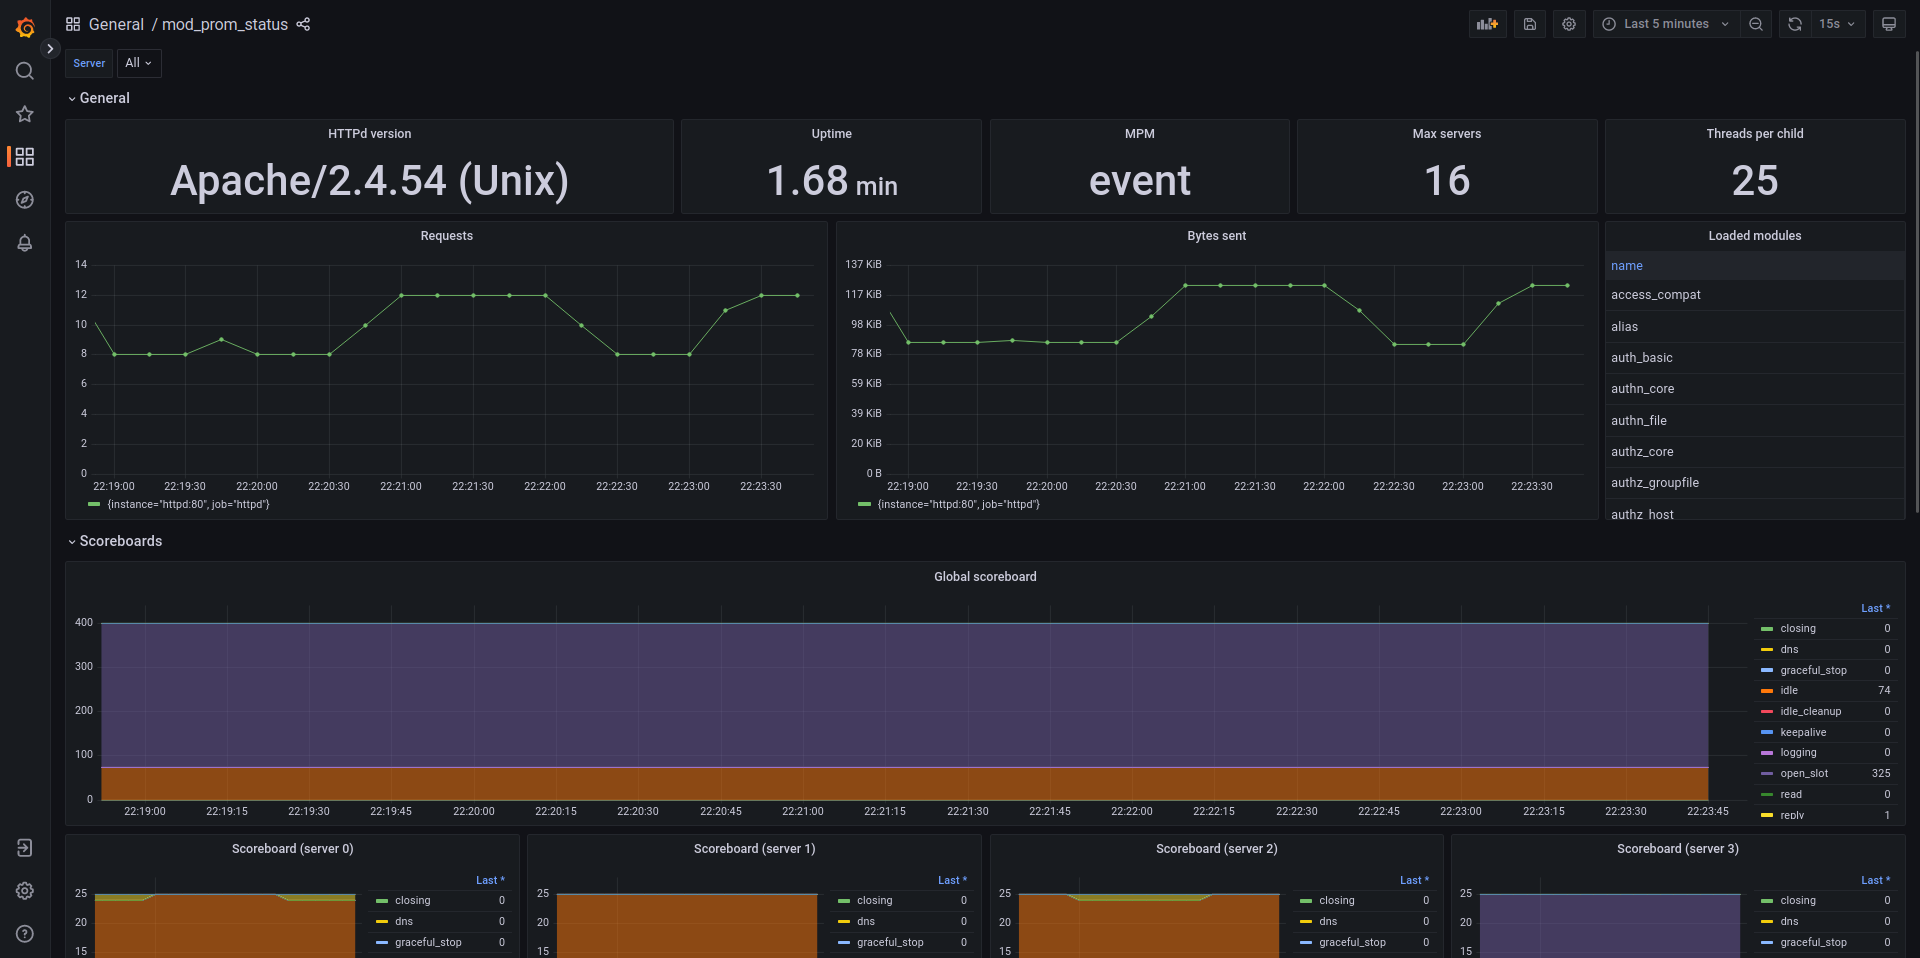
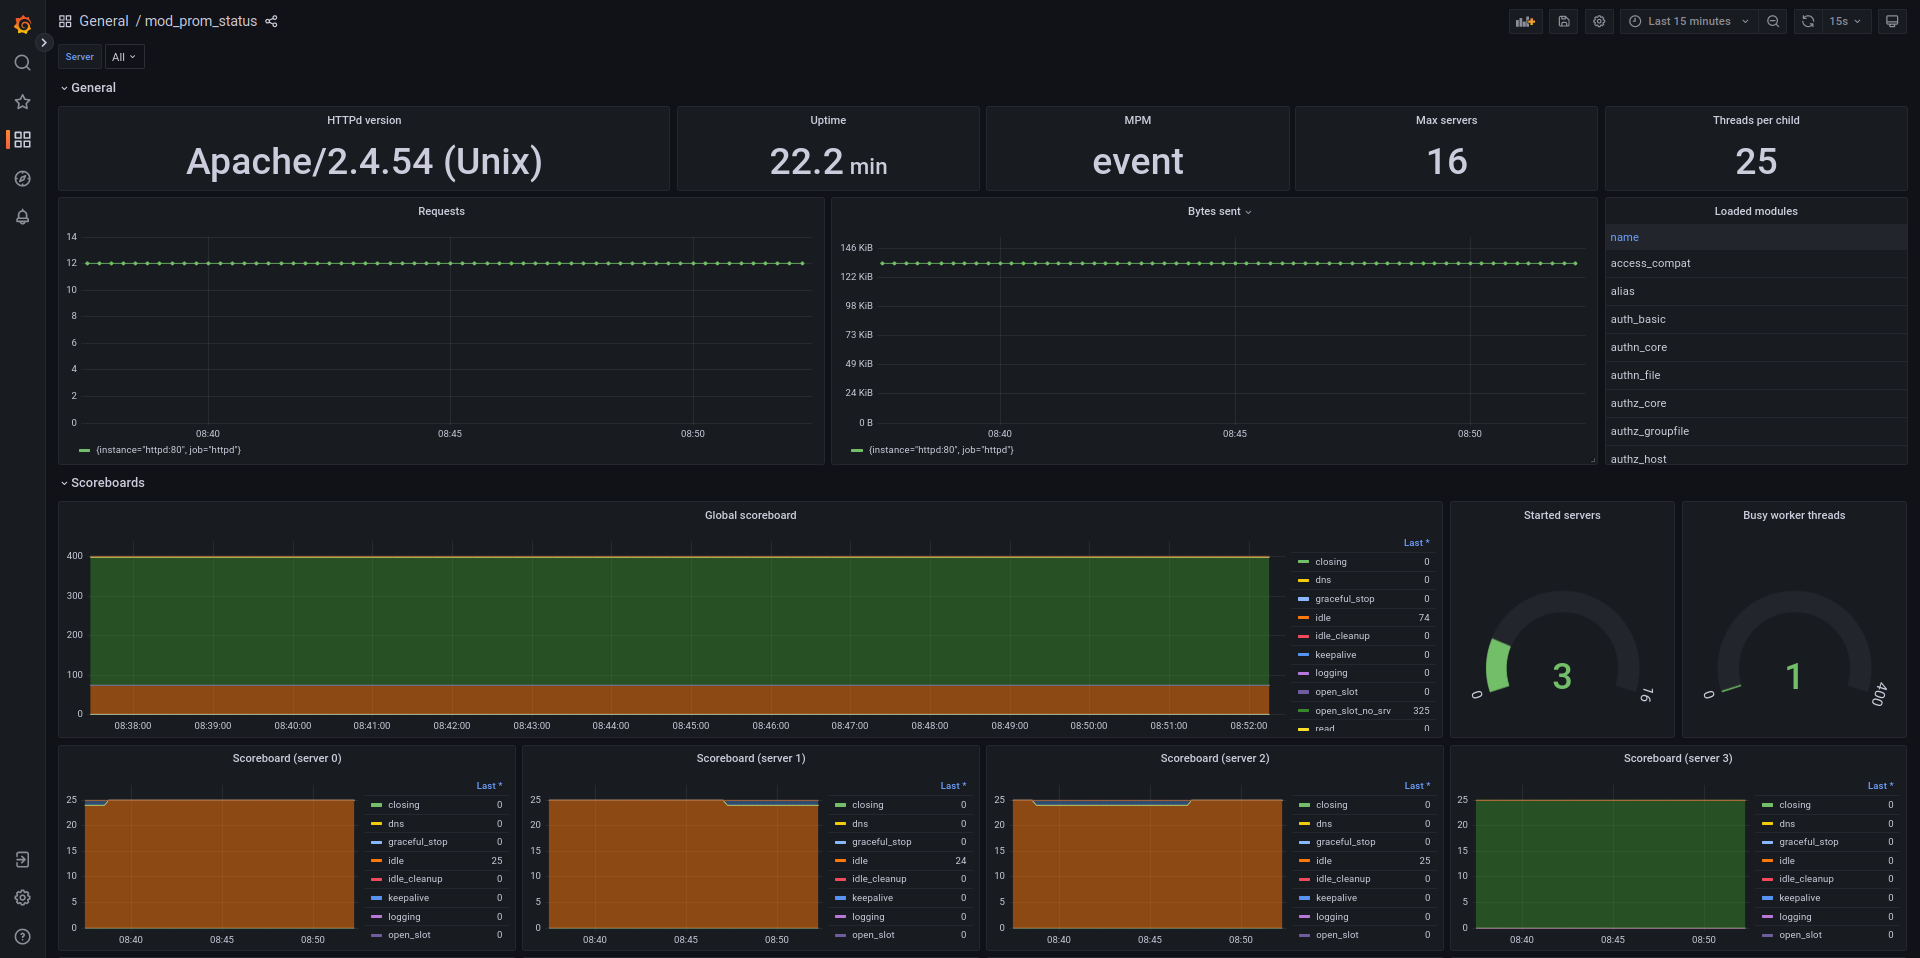
separate open_slot with server and open_slot without server separately

diff --git a/mod_prom_status/prom_status_renderer.c b/mod_prom_status/prom_status_renderer.c
@@ -71,17 +71,18 @@ void print_scoreboard_data(request_rec *r, prom_status_httpd_metrics *metrics, p
 
     const char *tpl = "httpd_scoreboard{state=\"%s\", server=\"%d\"} %d\n";
     for (int i = 0; i < mpm_config->server_limit; ++i) {
-        ap_rprintf(r, tpl, "open_slot",     i, metrics->worker_status_count[i * MOD_STATUS_STATUS_COUNT + SERVER_DEAD]);
-        ap_rprintf(r, tpl, "idle",          i, metrics->worker_status_count[i * MOD_STATUS_STATUS_COUNT + SERVER_READY]);
-        ap_rprintf(r, tpl, "startup",       i, metrics->worker_status_count[i * MOD_STATUS_STATUS_COUNT + SERVER_STARTING]);
-        ap_rprintf(r, tpl, "read",          i, metrics->worker_status_count[i * MOD_STATUS_STATUS_COUNT + SERVER_BUSY_READ]);
-        ap_rprintf(r, tpl, "reply",         i, metrics->worker_status_count[i * MOD_STATUS_STATUS_COUNT + SERVER_BUSY_WRITE]);
-        ap_rprintf(r, tpl, "keepalive",     i, metrics->worker_status_count[i * MOD_STATUS_STATUS_COUNT + SERVER_BUSY_KEEPALIVE]);
-        ap_rprintf(r, tpl, "dns",           i, metrics->worker_status_count[i * MOD_STATUS_STATUS_COUNT + SERVER_BUSY_DNS]);
-        ap_rprintf(r, tpl, "closing",       i, metrics->worker_status_count[i * MOD_STATUS_STATUS_COUNT + SERVER_CLOSING]);
-        ap_rprintf(r, tpl, "logging",       i, metrics->worker_status_count[i * MOD_STATUS_STATUS_COUNT + SERVER_BUSY_LOG]);
-        ap_rprintf(r, tpl, "graceful_stop", i, metrics->worker_status_count[i * MOD_STATUS_STATUS_COUNT + SERVER_GRACEFUL]);
-        ap_rprintf(r, tpl, "idle_cleanup",  i, metrics->worker_status_count[i * MOD_STATUS_STATUS_COUNT + SERVER_IDLE_KILL]);
-//        ap_rprintf(r, tpl, "disabled",      i, metrics->worker_status_count[i * MOD_STATUS_STATUS_COUNT + SERVER_DISABLED]);
+        ap_rprintf(r, tpl, "open_slot_no_srv", i, metrics->worker_status_count[i * MOD_STATUS_STATUS_COUNT + SERVER_DEAD_NO_SERVER]);
+        ap_rprintf(r, tpl, "open_slot",        i, metrics->worker_status_count[i * MOD_STATUS_STATUS_COUNT + SERVER_DEAD]);
+        ap_rprintf(r, tpl, "idle",             i, metrics->worker_status_count[i * MOD_STATUS_STATUS_COUNT + SERVER_READY]);
+        ap_rprintf(r, tpl, "startup",          i, metrics->worker_status_count[i * MOD_STATUS_STATUS_COUNT + SERVER_STARTING]);
+        ap_rprintf(r, tpl, "read",             i, metrics->worker_status_count[i * MOD_STATUS_STATUS_COUNT + SERVER_BUSY_READ]);
+        ap_rprintf(r, tpl, "reply",            i, metrics->worker_status_count[i * MOD_STATUS_STATUS_COUNT + SERVER_BUSY_WRITE]);
+        ap_rprintf(r, tpl, "keepalive",        i, metrics->worker_status_count[i * MOD_STATUS_STATUS_COUNT + SERVER_BUSY_KEEPALIVE]);
+        ap_rprintf(r, tpl, "dns",              i, metrics->worker_status_count[i * MOD_STATUS_STATUS_COUNT + SERVER_BUSY_DNS]);
+        ap_rprintf(r, tpl, "closing",          i, metrics->worker_status_count[i * MOD_STATUS_STATUS_COUNT + SERVER_CLOSING]);
+        ap_rprintf(r, tpl, "logging",          i, metrics->worker_status_count[i * MOD_STATUS_STATUS_COUNT + SERVER_BUSY_LOG]);
+        ap_rprintf(r, tpl, "graceful_stop",    i, metrics->worker_status_count[i * MOD_STATUS_STATUS_COUNT + SERVER_GRACEFUL]);
+        ap_rprintf(r, tpl, "idle_cleanup",     i, metrics->worker_status_count[i * MOD_STATUS_STATUS_COUNT + SERVER_IDLE_KILL]);
+//        ap_rprintf(r, tpl, "disabled",         i, metrics->worker_status_count[i * MOD_STATUS_STATUS_COUNT + SERVER_DISABLED]);
     }
 }

diff --git a/mod_prom_status/prom_status_collector.c b/mod_prom_status/prom_status_collector.c
@@ -44,6 +44,7 @@ prom_status_httpd_metrics *load_http_metrics(request_rec *r, prom_status_http_mp
             worker_score *ws_record = apr_palloc(r->pool, sizeof *ws_record);
 
             ap_copy_scoreboard_worker(ws_record, i, k);
+
             int res = ws_record->status;
 
             if ((i >= mpm_config->max_servers || k >= mpm_config->threads_per_child) && (res == SERVER_DEAD)) {
@@ -56,6 +57,12 @@ prom_status_httpd_metrics *load_http_metrics(request_rec *r, prom_status_http_mp
                 metrics->req_count += ws_record->access_count;
                 metrics->byte_count += ws_record->bytes_served;
             }
+        }
+
+        // if all the server threads are dead, then there is no server process at all
+        if (metrics->worker_status_count[i * MOD_STATUS_STATUS_COUNT + SERVER_DEAD] == mpm_config->threads_per_child) {
+            metrics->worker_status_count[i * MOD_STATUS_STATUS_COUNT + SERVER_DEAD] = 0;
+            metrics->worker_status_count[i * MOD_STATUS_STATUS_COUNT + SERVER_DEAD_NO_SERVER] = mpm_config->threads_per_child;
         }
     }
 

diff --git a/mod_prom_status/mod_prom_status_internal.h b/mod_prom_status/mod_prom_status_internal.h
@@ -27,7 +27,8 @@
 #include "http_core.h"
 
 #define SERVER_DISABLED SERVER_NUM_STATUS
-#define MOD_STATUS_STATUS_COUNT (SERVER_NUM_STATUS+1)
+#define SERVER_DEAD_NO_SERVER SERVER_NUM_STATUS+1
+#define MOD_STATUS_STATUS_COUNT (SERVER_NUM_STATUS+2)
 
 typedef struct {
     int show_modules;
